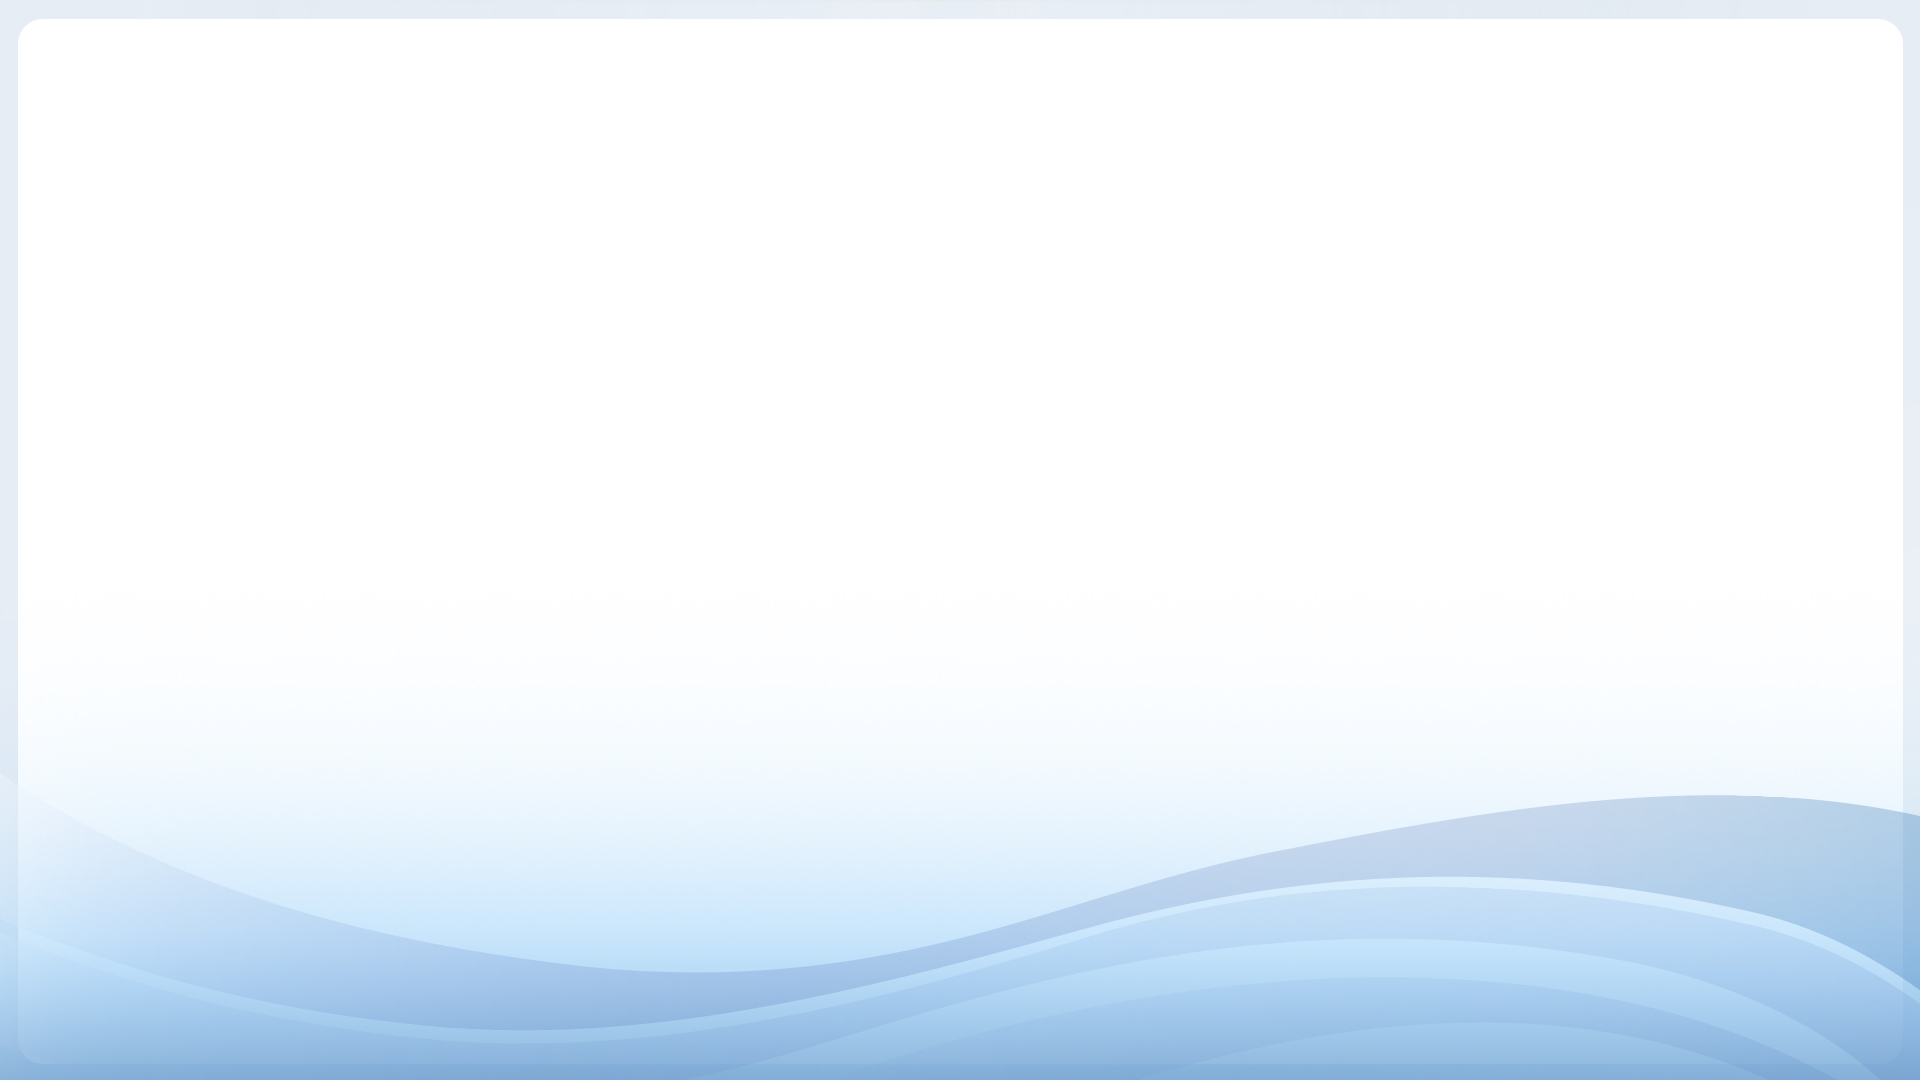
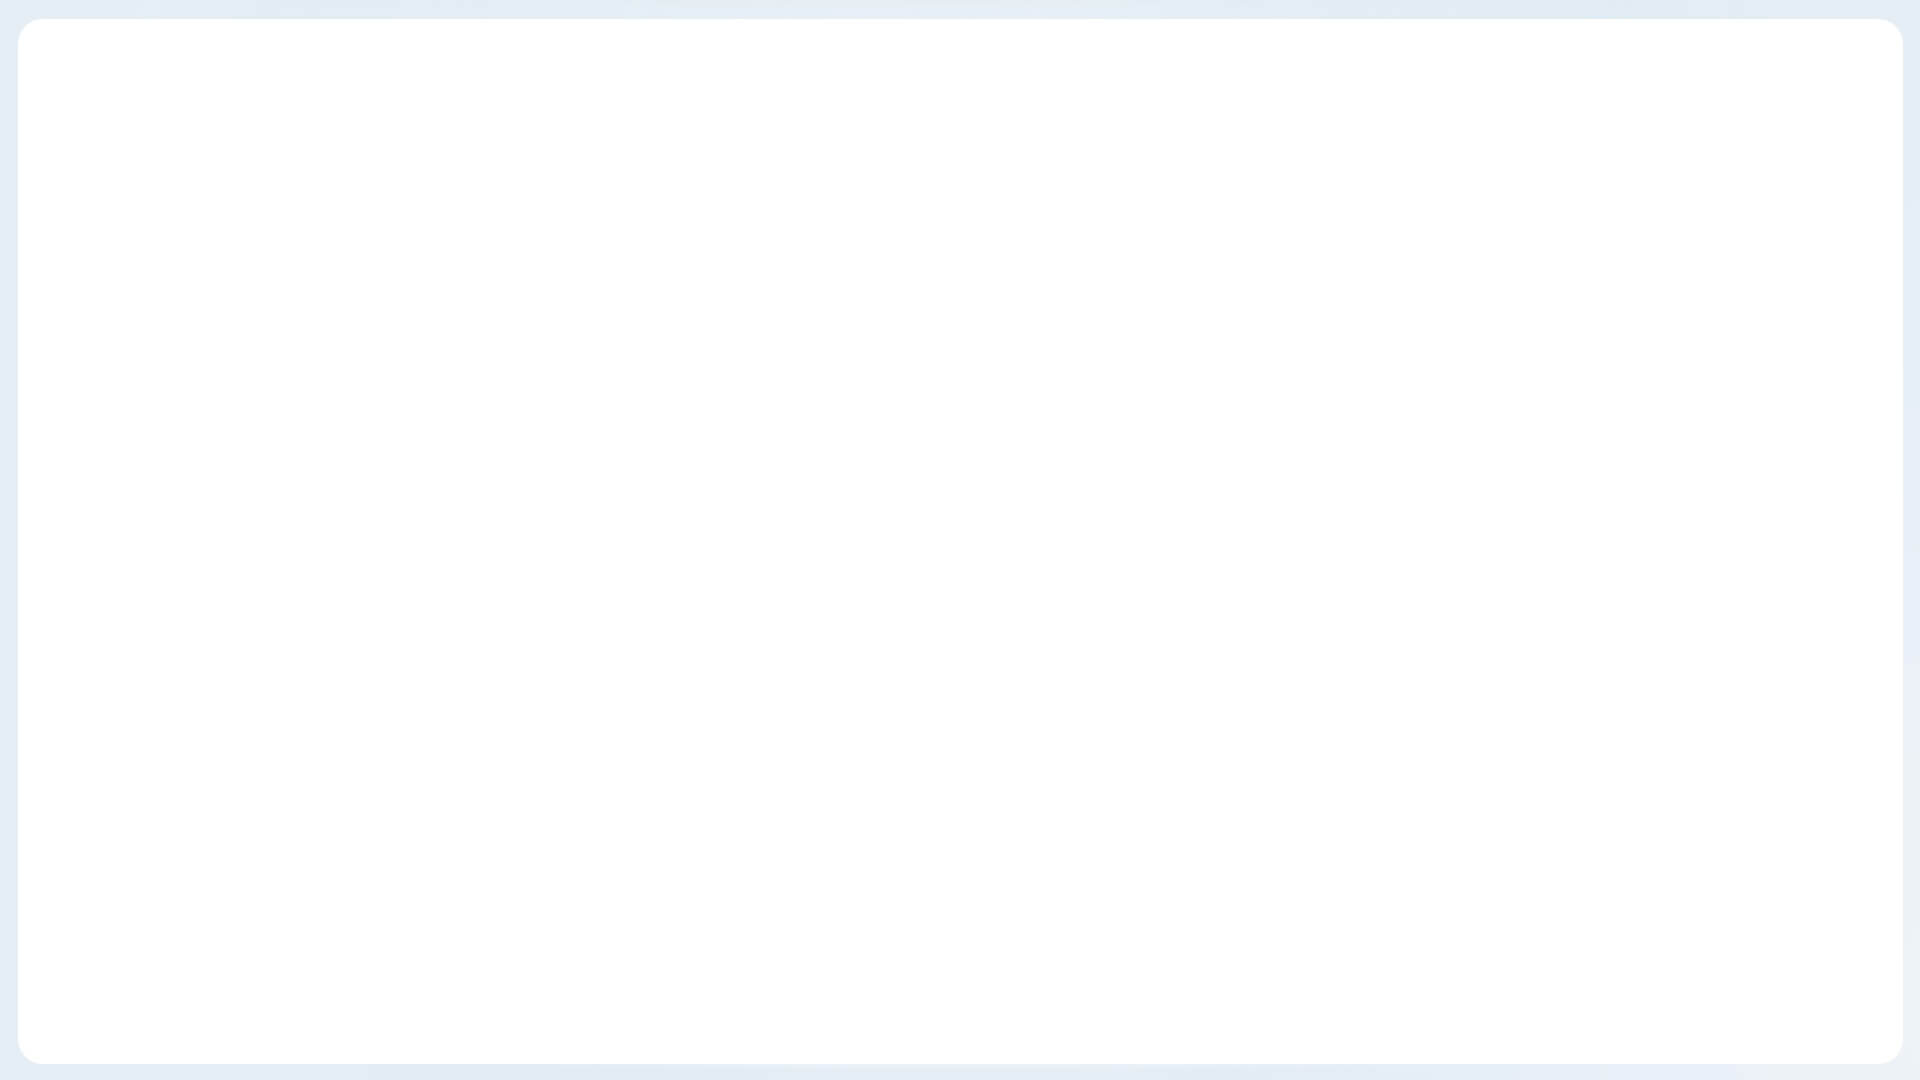
servicios

Changed region(s): [[0.0, 0.7333, 1.0, 1.0]]

diff --git a/css/style.min.css b/css/style.min.css
@@ -72,15 +72,15 @@
 .block_Mostrar{-webkit-transform:translateX(0)}.hidden{-webkit-transition:-webkit-transform .4s}.ocultar{-webkit-transform:translateX(-1000px)}.titleLeft,.titleRight{position:absolute;top:90px;-webkit-transition:-webkit-transform .4s}
 .titleLeft{right:0;-webkit-transform:translateX(-1000px)}.titleRight{left:0;-webkit-transform:translateX(1000px)}.titleMostrar{-webkit-transform:translateX(0);cursor:pointer}
 .titleventajas{display:block;-webkit-transition:-webkit-transform .4s;-webkit-transform:translateX(1000px)}.titleventajasMostrar{-webkit-transition:-webkit-transform .4s;display:block!important;-webkit-transform:translateX(0)}
-.leftWidht,.leftWidhtPage{left:0!important;width:960px!important}.page4{width:922px!important}.delay{-webkit-animation-delay:.7s}.p8 .imgBtnLeft{position:absolute;right:0;top:10%}
-.p9 .imgBtnRight{left:0;position:absolute;top:10%}.p8 ul,.p9 ul{position:absolute!important;top:30%}.p8 ul{left:6%}.p9 ul{left:3%}.p8 ul li,.p9 ul li{display:inline-block;vertical-align:top!important;width:30%;margin-right:4%!important}
-.p8 ul li:last-child,.p9 ul li:last-child{margin-left:1%!important;margin-right:0!important}.serviciosMain,.serviciosMain li img,.imgBtnLeft,.imgBtnRight{-moz-transition:all 1s ease-in-out;-o-transition:all 1s ease-in-out;-webkit-transition:all 1s ease-in-out;transition:all 1s ease-in-out}
-.serviciosMainActive{top:10%!important}.imgBtnLeftActive,.imgBtnRightActive{top:3%!important;cursor:pointer}.serviciosMain li:hover img{transform:scale(1.1)}
-.serviciosMainActive li:hover img{transform:scale(1.1)}.serviciosMainActive li img{-moz-transition:all 1s ease-in-out;-o-transition:all 1s ease-in-out;-webkit-transition:all 1s ease-in-out;max-width:80%;transition:all 1s ease-in-out}
-.serviciosMainActive .serviceActive img{-moz-transition:all 1s ease-in-out;-o-transition:all 1s ease-in-out;-webkit-transition:all 1s ease-in-out;max-width:100%;transform:scale(1.02);transition:all 1s ease-in-out}
-.btnMenu{-webkit-transform:translateX(-1000px);-webkit-transition:-webkit-transform .4s;position:relative;top:50%;z-index:10000}.btnMenuMostrar{-webkit-transform:translateX(0)}
-.btnMenu li{-webkit-transition:-webkit-transform .4s;width:100%!important;margin-top:5%!important}.btnMenu li:first-child{margin-top:0!important}.imgPage{-webkit-transform:translateX(1000px);-webkit-transition:-webkit-transform .4s;bottom:0;height:61%!important;max-width:100%;position:absolute;right:0}
-.content{-webkit-transform:translateX(1000px);-webkit-transition:-webkit-transform .4s;bottom:0;height:100%!important;position:absolute}.imgPageMostrar,.contentMostrar{-webkit-transform:translateX(0);s}
+.leftWidht,.leftWidhtPage{left:0!important;width:960px!important}.page4{width:922px!important}.delay{-webkit-animation-delay:.7s}.p8 .imgBtnLeft{position:absolute;right:0;top:12%}
+.p9 .imgBtnRight{left:0;position:absolute;top:12%}.p8 ul,.p9 ul{position:absolute!important;top:30%;width:100%}.p8 ul{left:3.5%}.p9 ul{right:-2%}.p8 ul li,.p9 ul li{display:inline-block;vertical-align:top!important;width:30%;margin-right:2%!important}
+.p8 ul li:last-child,.p9 ul li:last-child{margin-left:0!important;margin-right:0!important}.bgUp{bottom:-6px;position:absolute;z-index:1}.serviciosMain,.serviciosMain li img,.imgBtnLeft,.imgBtnRight{-moz-transition:all 1s ease-in-out;-o-transition:all 1s ease-in-out;-webkit-transition:all 1s ease-in-out;transition:all 1s ease-in-out}
+.serviciosMainActive{top:10%!important}.imgBtnLeftActive,.imgBtnRightActive{top:3%!important;cursor:pointer}.serviciosMain li img{-moz-transition:all .2 ease-in-out;-ms-transition:all .2 ease-in-out;-o-transition:all .2 ease-in-out;-webkit-transition:all .2 ease-in-out;transition:all .2 ease-in-out}
+.serviciosMain li:hover img{transform:scale(1.1)}.serviciosMainActive li:hover img{transform:scale(1.1)}.serviciosMainActive li img{display:block;height:auto;margin:auto!important;max-width:60%}
+.serviciosMainActive .serviceActive img{display:block;height:auto;margin:auto!important;max-width:80%;transform:scale(1.02)}.btnMenu{-webkit-transform:translateX(-1000px);-webkit-transition:-webkit-transform .4s;left:2%;position:relative;top:44%;z-index:10000}
+.btnMenuMostrar{-webkit-transform:translateX(0)}.btnMenu li{-webkit-transition:-webkit-transform .4s;width:100%!important;margin-top:5%!important}.btnMenu li:first-child{margin-top:0!important}
+.imgPage{-webkit-transform:translateX(1000px);-webkit-transition:-webkit-transform .4s;bottom:0;height:61%!important;max-width:100%;position:absolute;right:0}
+.content{-webkit-transform:translateX(1000px);-webkit-transition:-webkit-transform .4s;bottom:0;height:100%!important;position:absolute;z-index:2}.imgPageMostrar,.contentMostrar{-webkit-transform:translateX(0);s}
 .imgPageMostrar.imgPage001{background:url('../img/8_9/resonancia/foto_big.jpg')!important;width:100%!important}.imgPageMostrar.imgPage002{background:url('../img/8_9/tomografia/foto_big.jpg')!important;width:100%!important}
 .imgPageMostrar.imgPage003{background:url('../img/8_9/ecografia/foto_big.jpg')!important;width:100%!important}.imgPageMostrar.imgPage004{background:url('../img/8_9/mamografia/foto_big.jpg')!important;width:100%!important}
 .imgPageMostrar.imgPage005{background:url('../img/8_9/densitometria/foto_big.jpg')!important;width:100%!important}.imgPageMostrar.imgPage006{background:url('../img/8_9/rayosx/foto_big.jpg')!important;width:100%!important}

diff --git a/index.html b/index.html
@@ -214,6 +214,9 @@
                     </ul>
                   </div><!-- FIN MENU RAYOS X -->
                 </div><!-- END DESCRIPTION FOR PAGE -->
+                <div class="bgUp animated seconds fadeInUp delay">
+                  <img src="img/8_9/bgLeft.png">
+                </div>
               </div><!-- END CONTAINER PAGE BOOK -->
             </div><!-- END PAGE 8 -->
             <div data-background-image="pages/8_9.jpg" class="fb5-double fb5-second"><!-- BEGIN PAGE 9 -->
@@ -291,6 +294,9 @@
                       <img class="animated seconds fadeInRight delay" src="img/8_9/rayosx/content003.png" alt="imgbig018">
                     </div>
                   </div><!-- FIN CONTENIDO RAYOS X -->
+                  <div class="bgUp animated seconds fadeInUp delay">
+                    <img src="img/8_9/bgRight.png">
+                  </div>
                 </div><!-- END DESCRIPTION FOR PAGE -->
               </div><!-- END CONTAINER PAGE BOOK -->
             </div><!-- END PAGE 9 -->
@@ -325,7 +331,7 @@
                 </div><!-- END DESCRIPTION FOR PAGE -->
               </div><!-- END CONTAINER PAGE BOOK -->
             </div><!-- END PAGE 11 -->
-            <div data-background-image="pages/8_9.jpg" class="fb5-double fb5-first"><!-- BEGIN PAGE 12 -->
+            <div data-background-image="pages/12_13.jpg" class="fb5-double fb5-first"><!-- BEGIN PAGE 12 -->
               <div class="fb5-cont-page-book"><!-- BEGIN CONTAINER PAGE BOOK -->
                 <div class="fb5-page-book"><!-- BEGIN DESCRIPTION FOR PAGE -->
                   <div class="title-left animated seconds fadeInLeft delay">
@@ -342,7 +348,7 @@
                 </div><!-- END DESCRIPTION FOR PAGE -->
               </div><!-- END CONTAINER PAGE BOOK -->
             </div><!-- END PAGE 12 -->
-            <div data-background-image="pages/8_9.jpg" class="fb5-double fb5-second"><!-- BEGIN PAGE 13 -->
+            <div data-background-image="pages/12_13.jpg" class="fb5-double fb5-second"><!-- BEGIN PAGE 13 -->
               <div class="fb5-cont-page-book"><!-- BEGIN CONTAINER PAGE BOOK -->
                 <div class="fb5-page-book"><!-- BEGIN DESCRIPTION FOR PAGE -->
                   <div class="title-right animated seconds fadeInRight delay">
@@ -535,13 +541,13 @@
                 </div><!-- END DESCRIPTION FOR PAGE -->
               </div><!-- END CONTAINER PAGE BOOK -->
             </div><!-- END PAGE 13 -->
-            <div data-background-image="pages/8_9.jpg" class="fb5-double fb5-first"><!-- BEGIN PAGE 14 -->
+            <div data-background-image="pages/12_13.jpg" class="fb5-double fb5-first"><!-- BEGIN PAGE 14 -->
               <div class="fb5-cont-page-book"><!-- BEGIN CONTAINER PAGE BOOK -->
                 <div class="fb5-page-book"><!-- BEGIN DESCRIPTION FOR PAGE -->
                 </div><!-- END DESCRIPTION FOR PAGE -->
               </div><!-- END CONTAINER PAGE BOOK -->
             </div><!-- END PAGE 14 -->
-            <div data-background-image="pages/8_9.jpg" class="fb5-double fb5-second"><!-- BEGIN PAGE 15 -->
+            <div data-background-image="pages/12_13.jpg" class="fb5-double fb5-second"><!-- BEGIN PAGE 15 -->
               <div class="fb5-cont-page-book"><!-- BEGIN CONTAINER PAGE BOOK -->
                 <div class="fb5-page-book"><!-- BEGIN DESCRIPTION FOR PAGE -->
                 </div><!-- END DESCRIPTION FOR PAGE -->

diff --git a/css/style.css b/css/style.css
@@ -1072,38 +1072,45 @@ html,body {
 .p8 .imgBtnLeft{
 	position: absolute;
 	right: 0;
-	top: 10%;
+	top: 12%;
 }
 
 .p9 .imgBtnRight{
 	left: 0;
 	position: absolute;
-	top: 10%;
+	top: 12%;
 }
 
 .p8 ul, .p9 ul {
 	position: absolute !important;
 	top: 30%;
+	width: 100%;
 }
 
 .p8 ul {
-	left: 6%;
+	left: 3.5%;
 }
 
 .p9 ul {
-	left: 3%;
+	right: -2%;
 }
 
 .p8 ul li, .p9 ul li {
 	display: inline-block;
 	vertical-align: top !important;
 	width: 30%;
-	margin-right: 4% !important;
+	margin-right: 2% !important
 }
 
 .p8 ul li:last-child, .p9 ul li:last-child {
-  margin-left: 1% !important;
+  margin-left: 0% !important;
   margin-right: 0% !important;
+}
+
+.bgUp {
+	bottom: -6px;
+	position: absolute;
+	z-index: 1;
 }
 
 .serviciosMain, .serviciosMain li img, .imgBtnLeft, .imgBtnRight {
@@ -1122,6 +1129,14 @@ html,body {
 	cursor: pointer;
 }
 
+.serviciosMain li img {
+	-moz-transition: all 0.2 ease-in-out;
+	-ms-transition: all 0.2 ease-in-out;
+	-o-transition: all 0.2 ease-in-out;
+	-webkit-transition: all 0.2 ease-in-out;
+	transition: all 0.2 ease-in-out;
+}
+
 .serviciosMain li:hover img{
 	transform: scale(1.1);
 }
@@ -1131,27 +1146,26 @@ html,body {
 }
 
 .serviciosMainActive li img {
-	-moz-transition: all 1s ease-in-out;
-	-o-transition: all 1s ease-in-out;
-	-webkit-transition: all 1s ease-in-out;
-	max-width: 80%;
-	transition: all 1s ease-in-out;
+	display: block;
+	height: auto;
+	margin: auto !important;
+	max-width: 60%;
 }
 
 .serviciosMainActive .serviceActive img {
-	-moz-transition: all 1s ease-in-out;
-	-o-transition: all 1s ease-in-out;
-	-webkit-transition: all 1s ease-in-out;
-	max-width: 100%;
+	display: block;
+	height: auto;
+	margin: auto !important;
+	max-width: 80%;
 	transform: scale(1.02);
-	transition: all 1s ease-in-out;
 }
 
 .btnMenu {
 	-webkit-transform: translateX(-1000px);
 	-webkit-transition: -webkit-transform 0.4s;
+	left: 2%;
 	position: relative;
-	top: 50%;
+	top: 44%;
 	z-index: 10000;
 }
 
@@ -1185,6 +1199,7 @@ html,body {
 	bottom: 0;
 	height: 100% !important;
 	position: absolute;
+	z-index: 2;
 }
 
 .imgPageMostrar, .contentMostrar  {
